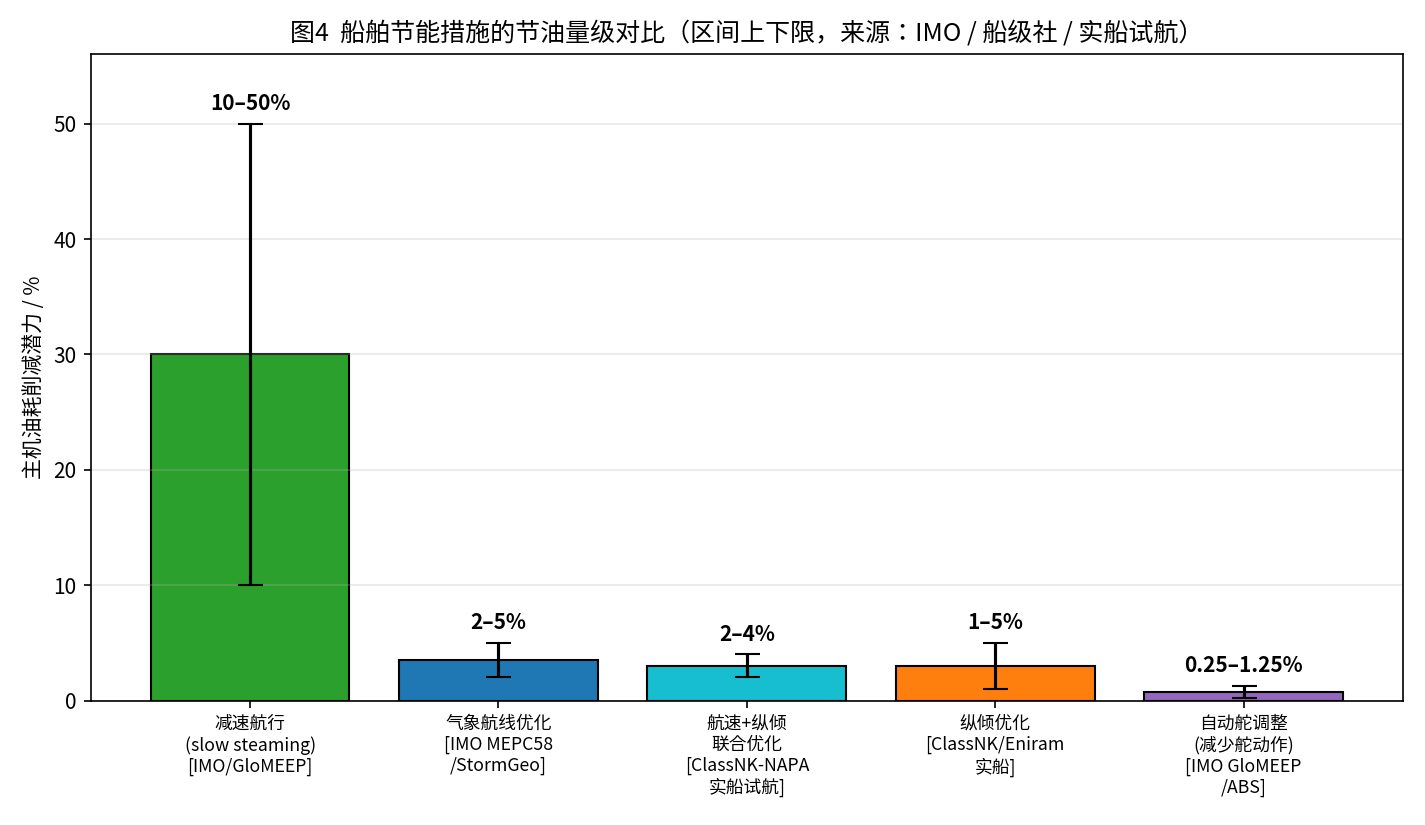
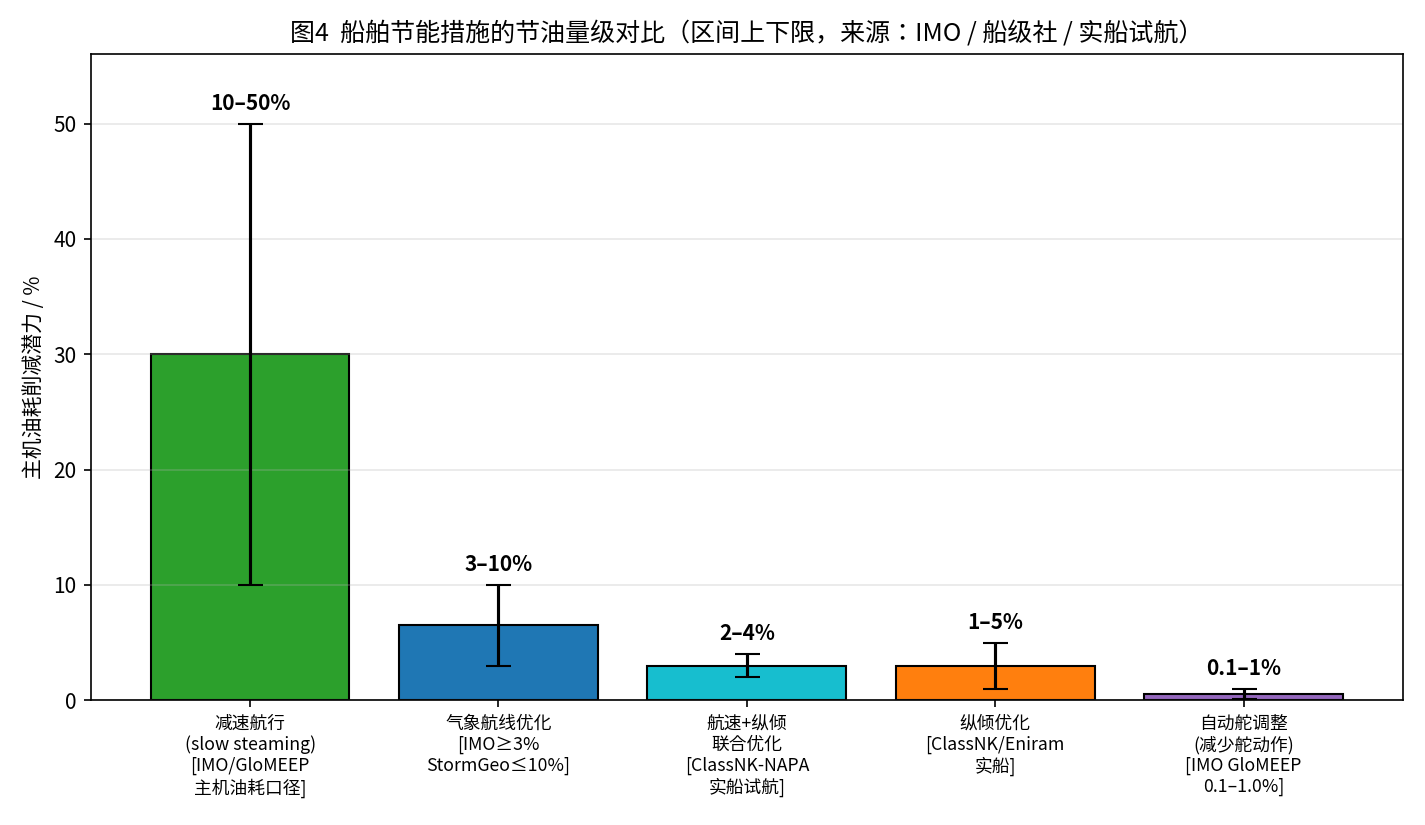
docs: 核对调研文档数据与来源并补充缺失章节

diff --git a/docs/ship_energy_research/make_figures.py b/docs/ship_energy_research/make_figures.py
@@ -77,9 +77,9 @@ ax.legend(loc="lower right", bbox_to_anchor=(1.15, -0.05))
 fig.tight_layout(); fig.savefig(f"{OUT}/fig3_radar.png", dpi=150); plt.close(fig)
 
 # ---------------- 图4: 节能措施量级对比 ----------------
-measures = ["减速航行\n(slow steaming)\n[IMO/GloMEEP]", "气象航线优化\n[IMO MEPC58\n/StormGeo]", "航速+纵倾\n联合优化\n[ClassNK-NAPA\n实船试航]", "纵倾优化\n[ClassNK/Eniram\n实船]", "自动舵调整\n(减少舵动作)\n[IMO GloMEEP\n/ABS]"]
-lo = np.array([10, 2, 2, 1, 0.25])
-hi = np.array([50, 5, 4, 5, 1.25])
+measures = ["减速航行\n(slow steaming)\n[IMO/GloMEEP\n主机油耗口径]", "气象航线优化\n[IMO≥3%\nStormGeo≤10%]", "航速+纵倾\n联合优化\n[ClassNK-NAPA\n实船试航]", "纵倾优化\n[ClassNK/Eniram\n实船]", "自动舵调整\n(减少舵动作)\n[IMO GloMEEP\n0.1–1.0%]"]
+lo = np.array([10, 3, 2, 1, 0.1])
+hi = np.array([50, 10, 4, 5, 1.0])
 mid = (lo + hi) / 2
 fig, ax = plt.subplots(figsize=(9.5, 5.5))
 bars = ax.bar(measures, mid, yerr=[mid - lo, hi - mid], capsize=6,
@@ -95,9 +95,9 @@ ax.grid(axis="y", alpha=0.3)
 fig.tight_layout(); fig.savefig(f"{OUT}/fig4_energy_measures.png", dpi=150); plt.close(fig)
 
 # ---------------- 图5: 工业部署案例节油率 ----------------
-cases = ["Yara FuelOpt\n(Teekay 油轮)", "ABB OCTOPUS\n(1000+ 船)", "Kongsberg\nEcoAdvisor (DP)", "NAPA 航程优化\n(Marubeni)", "DeepSea+Nabtesco\n(汽车船)", "ClassNK-NAPA\n(K Line 箱船)", "Anschütz 自动舵\n(双舵 toe angle)"]
-vals = [4, 9, 9, 7.1, 3.4, 3.9, 5]
-notes = ["实测 3–5%", "官方 ≤9%", "DP 工况 8–10%", "实测 ≤7.1%", "实测 3.4%", "试航 3.8–3.9%", "宣称 ≤5%"]
+cases = ["Yara FuelOpt\n(Teekay 油轮)", "ABB OCTOPUS\n(1000+ 船)", "NAPA 航程优化\n(Marubeni)", "DeepSea+Nabtesco\n(汽车船)", "ClassNK-NAPA\n(K Line 箱船)", "Anschütz 自动舵\n(双舵 toe angle)"]
+vals = [4, 9, 7.1, 3.4, 3.9, 4.7]
+notes = ["实测 3–5%", "官方 ≤9%", "实测 ≤7.1%", "实测 3.4%", "试航 3.8–3.9%", "实测最高 4.7%（宣称 ≤5%）"]
 fig, ax = plt.subplots(figsize=(10, 5.2))
 bars = ax.barh(cases[::-1], vals[::-1], color="#1f77b4", edgecolor="k")
 for b, v, n in zip(bars, vals[::-1], notes[::-1]):
@@ -114,7 +114,7 @@ ax.axis("off")
 layers = [
     ("决策层（航次级）", "气象航线优化 / 航速剖面优化 / 到达时间管理（JIT）", "#2ca02c", "节油 2–5%（最大杠杆在减速航行 10–50%）"),
     ("操作层（工况级）", "纵倾优化 / 主机负荷点优化 / 混合动力能量管理（MPC-EMS）", "#17becf", "节油 1–5%，EMS 仿真最高 17%"),
-    ("控制层（舵机级）", "自动舵航向/航迹控制：PID / 自适应 / MPC —— 减少无效操舵、降低舵致阻力", "#1f77b4", "节油 0.25–1.25%（双舵 toe angle 特例 ≤5%）"),
+    ("控制层（舵机级）", "自动舵航向/航迹控制：PID / 自适应 / MPC —— 减少无效操舵、降低舵致阻力", "#1f77b4", "节油 0.1–1.0%（IMO）；双舵 toe angle 实测最高 4.7%"),
     ("执行层", "舵机 / 主机 / 可调螺距桨 / 储能系统", "#7f7f7f", "执行机构与传感器"),
 ]
 y = 0.86
